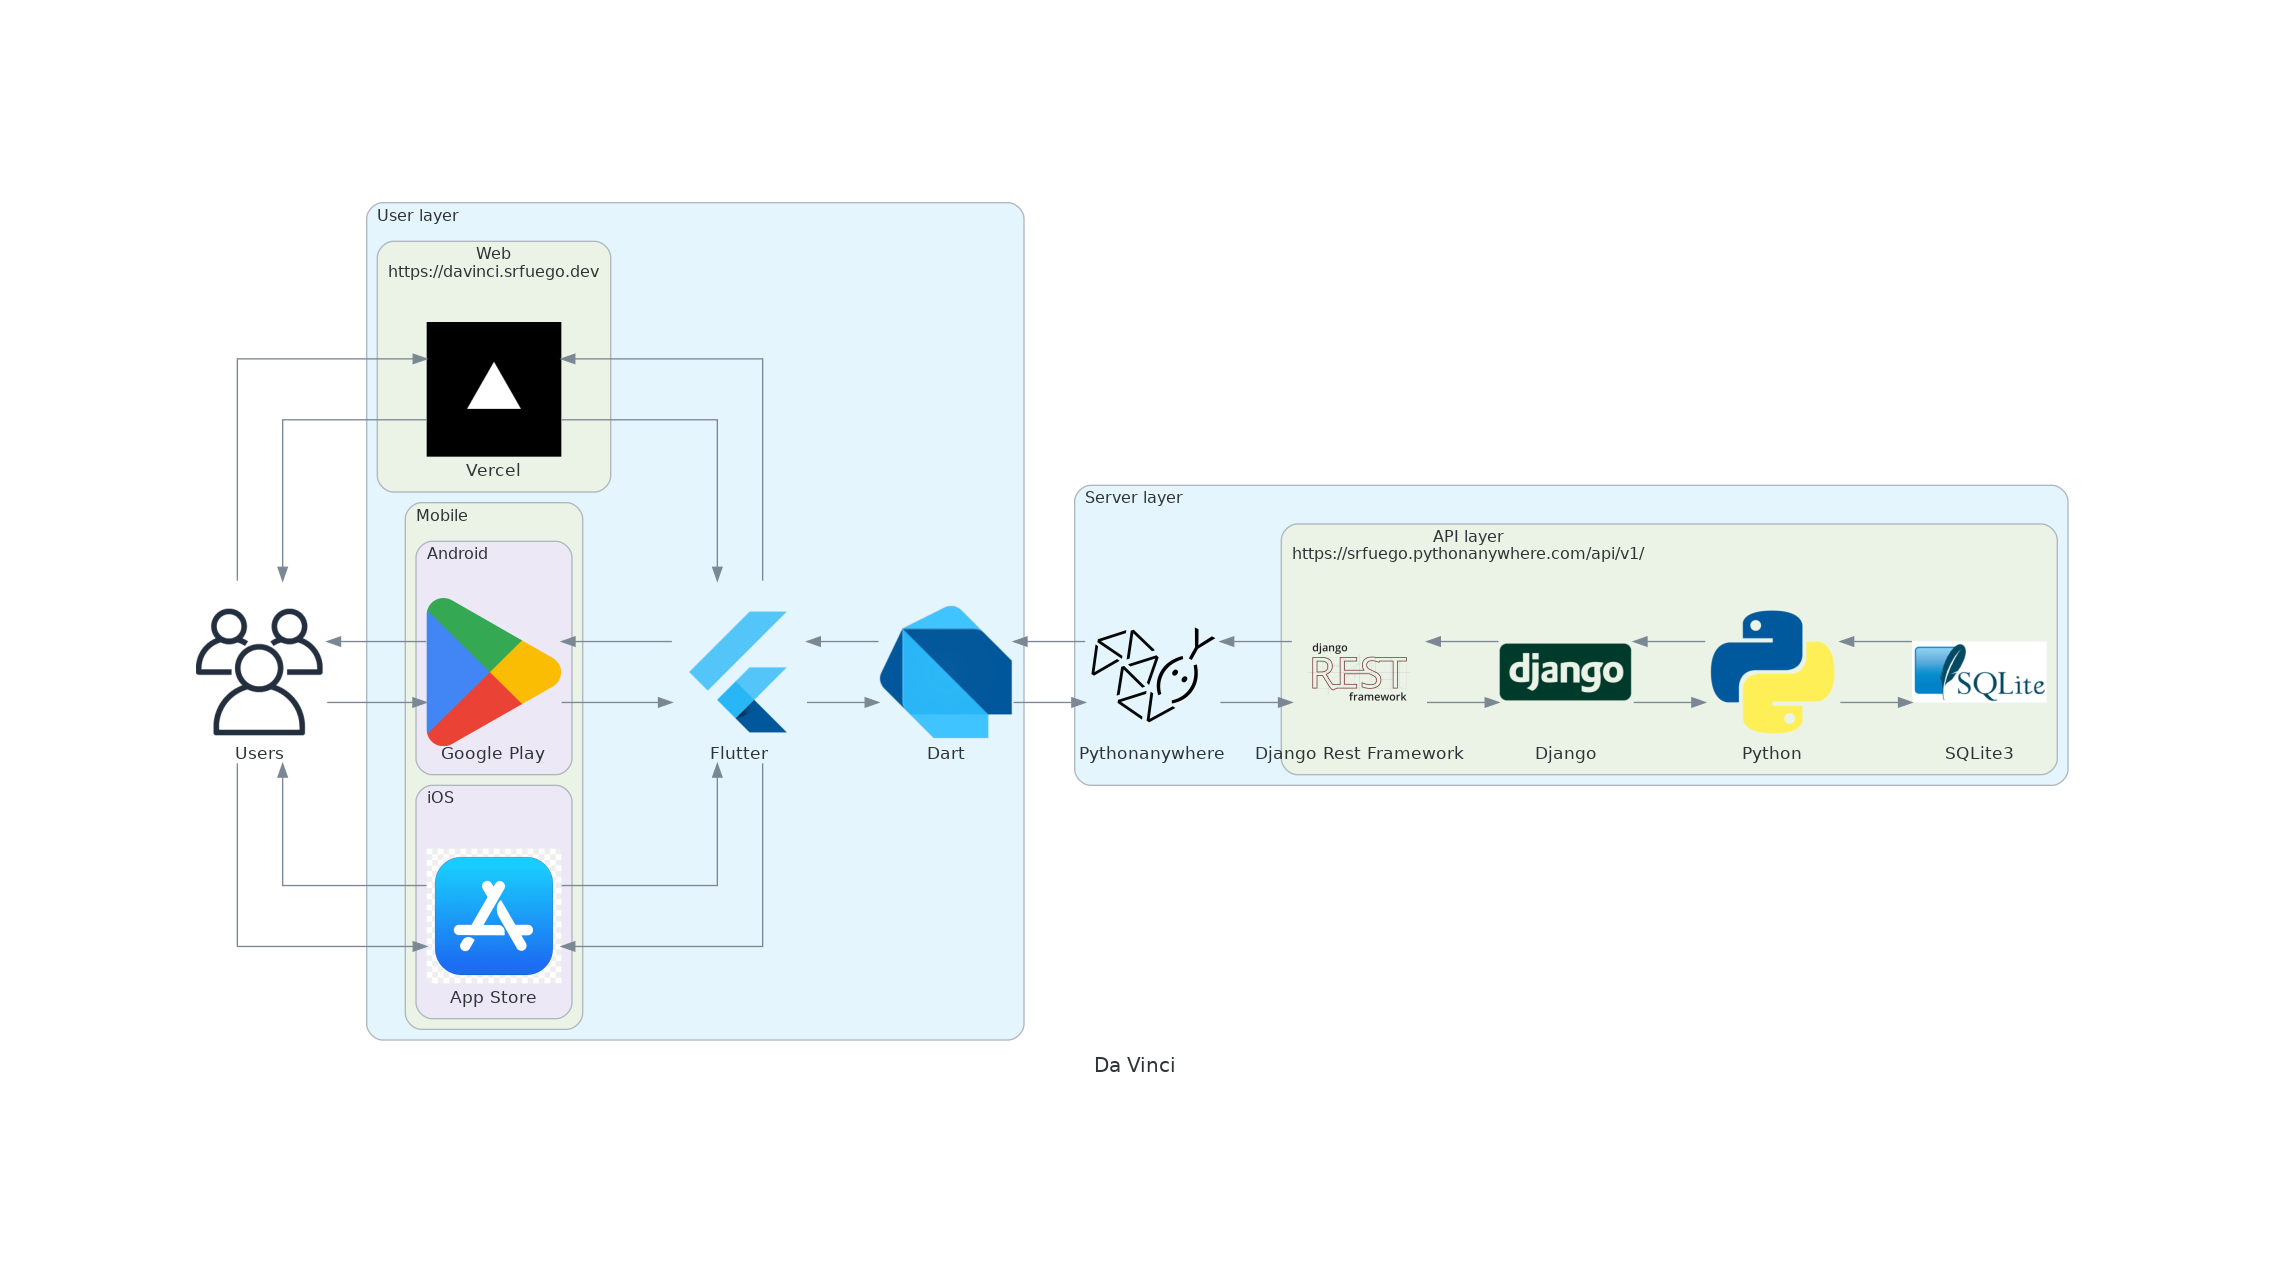
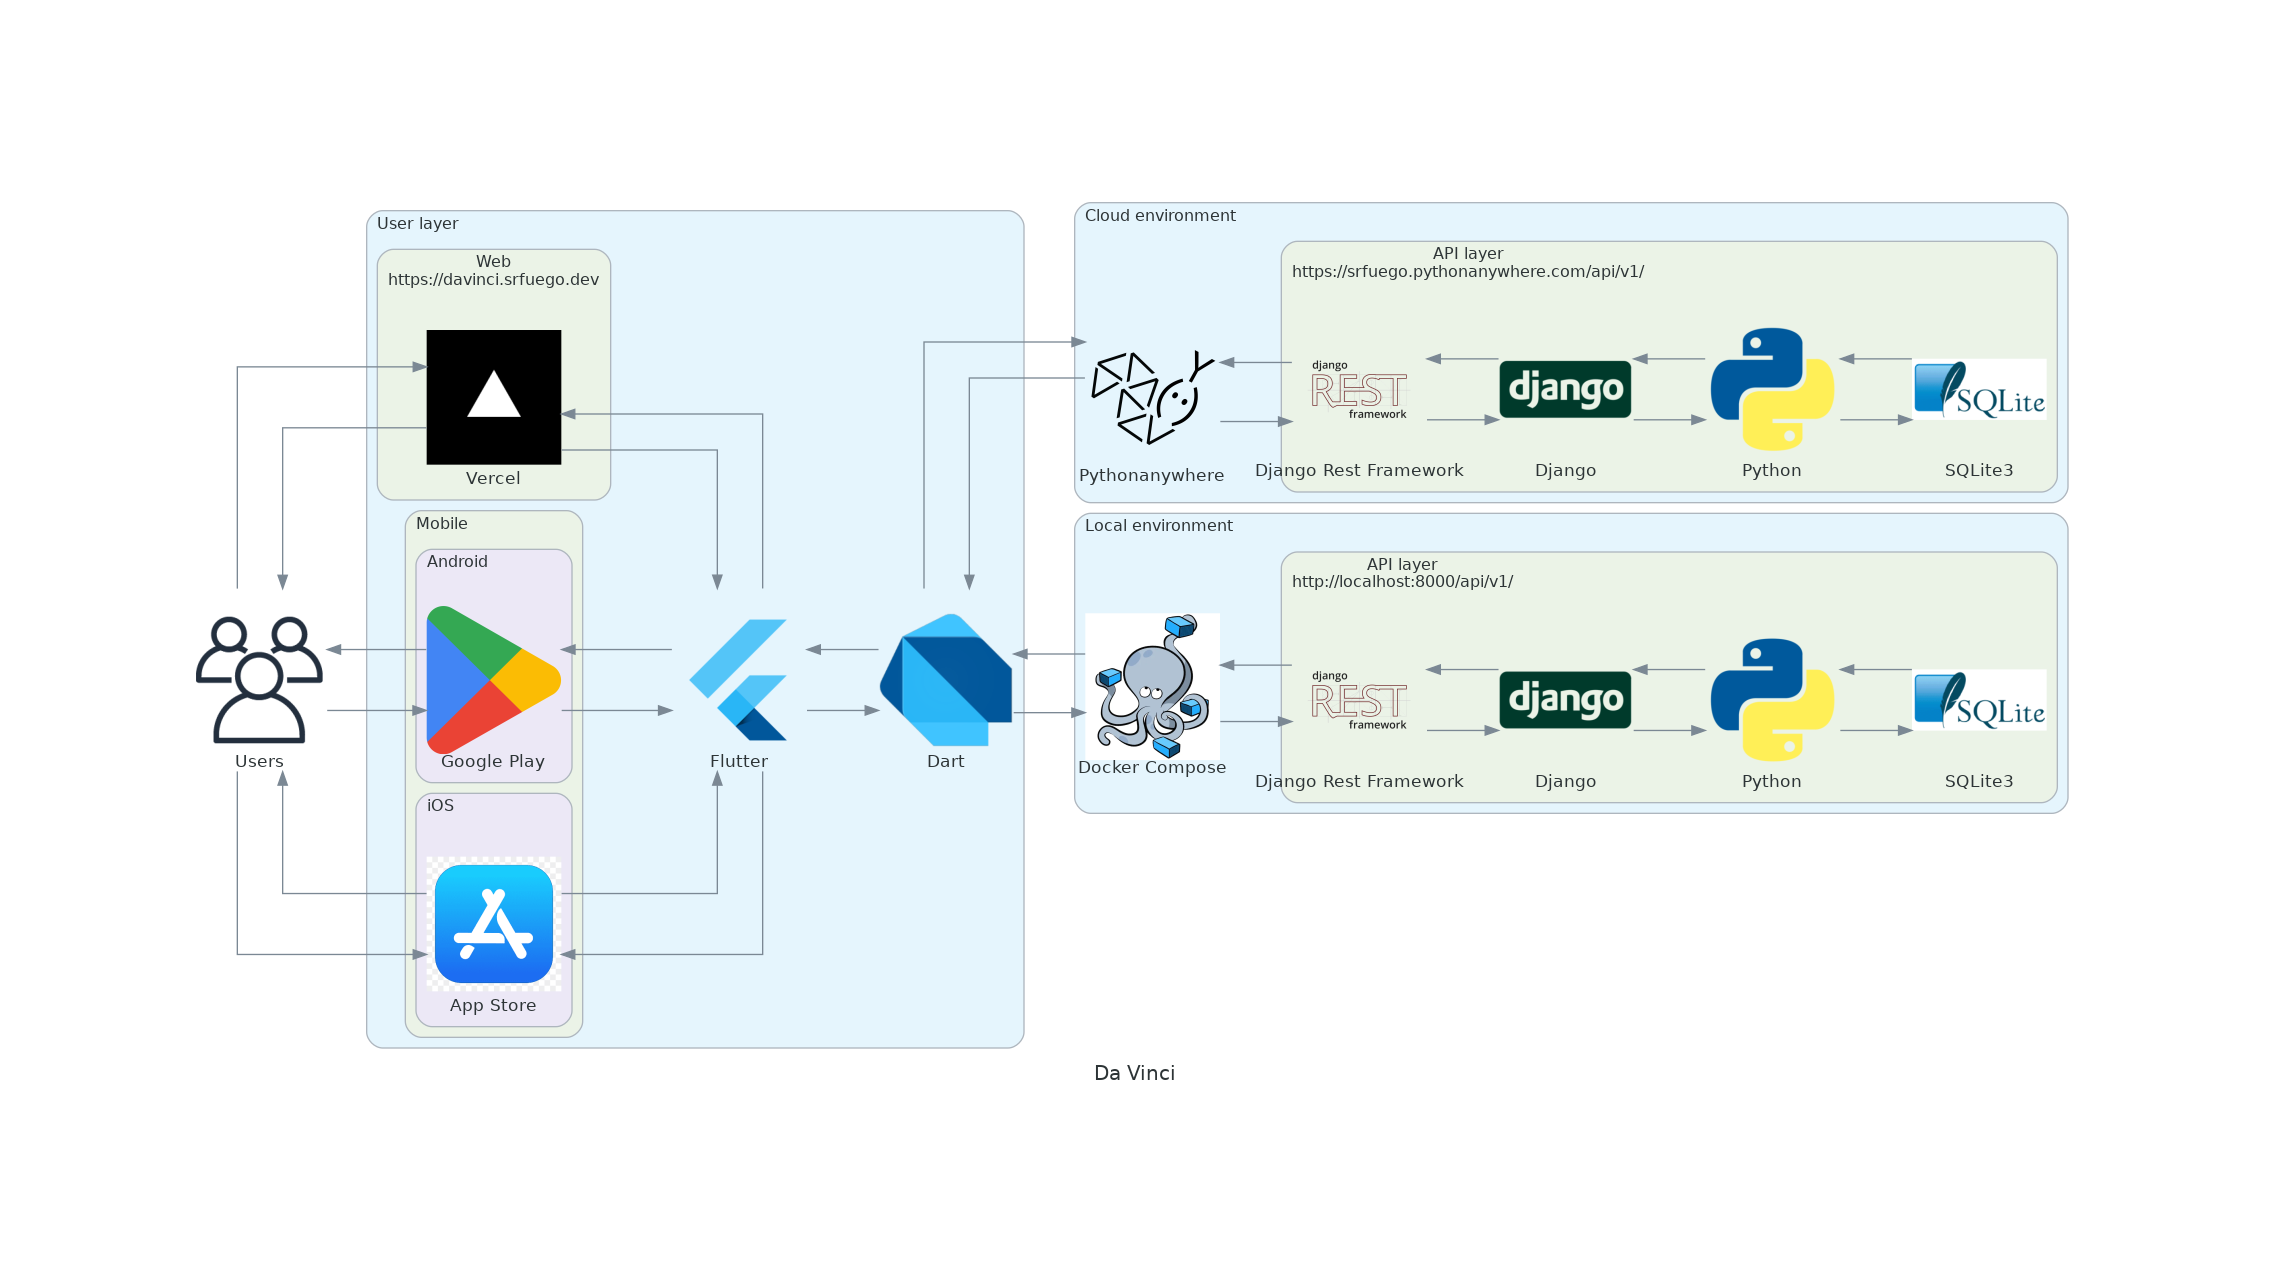
ADD diagram to Local environment

diff --git a/docs/infrastructure/diagram.py b/docs/infrastructure/diagram.py
@@ -1,17 +1,20 @@
 # diagram.py
 
 from diagrams import Cluster, Diagram
-from diagrams.aws.compute import EC2
-from diagrams.aws.database import RDS
-from diagrams.onprem.database import Postgresql
-from diagrams.aws.network import ELB
+
+# from diagrams.aws.compute import EC2
+# from diagrams.aws.database import RDS
+
+# from diagrams.onprem.database import Postgresql
+# from diagrams.aws.network import ELB
 from diagrams.custom import Custom
 from diagrams.programming.language import Dart, Python
 from diagrams.programming.framework import Django, Flutter
 from diagrams.onprem.client import Users
-from diagrams.generic.os import Android, IOS
-from diagrams.generic.device import Mobile, Tablet
-from diagrams.onprem.vcs import Git, Github
+
+# from diagrams.generic.os import Android, IOS
+# from diagrams.generic.device import Mobile, Tablet
+# from diagrams.onprem.vcs import Git, Github
 
 # from diagrams.onprem.network import Gunicorn, Nginx, Traefik
 
@@ -21,7 +24,6 @@ with Diagram("Da Vinci", show=False):
     with Cluster("User layer"):
         dart = Dart("Dart")
         flutter = Flutter("Flutter")
-
         with Cluster(
             "\n".join(
                 [
@@ -46,7 +48,7 @@ with Diagram("Da Vinci", show=False):
                     "./assets/app-store.png",
                 )
 
-    with Cluster("Server layer"):
+    with Cluster("Cloud environment"):
         pythonanywhere = Custom(
             "Pythonanywhere",
             "./assets/pythonanywhere.png",
@@ -59,20 +61,45 @@ with Diagram("Da Vinci", show=False):
                 ]
             )
         ):
-            python = Python("Python")
-            django = Django("Django")
-            django_rest = Custom(
+            python_cloud = Python("Python")
+            django_cloud = Django("Django")
+            django_rest_cloud = Custom(
                 "Django Rest Framework",
                 "./assets/django-rest-framework.png",
             )
-            sqlite = Custom(
+            sqlite_cloud = Custom(
                 "SQLite3",
                 "./assets/sqlite.png",
             )
         # with Cluster("Database layer"):
         #     database = Postgresql("Postgres")
 
-    # vercel
+    with Cluster("Local environment"):
+        docker_compose = Custom(
+            "Docker Compose",
+            "./assets/docker-compose.webp",
+        )
+        with Cluster(
+            "\n".join(
+                [
+                    "API layer",
+                    "http://localhost:8000/api/v1/",
+                ]
+            )
+        ):
+            python_local = Python("Python")
+            django_local = Django("Django")
+            django_rest_local = Custom(
+                "Django Rest Framework",
+                "./assets/django-rest-framework.png",
+            )
+            sqlite_local = Custom(
+                "SQLite3",
+                "./assets/sqlite.png",
+            )
+        # with Cluster("Database layer"):
+        #     database = Postgresql("Postgres")
+
     user >> vercel >> flutter
     user << vercel << flutter
 
@@ -85,7 +112,36 @@ with Diagram("Da Vinci", show=False):
     flutter >> dart
     flutter << dart
 
-    dart >> pythonanywhere >> django_rest >> django >> python >> sqlite
-    dart << pythonanywhere << django_rest << django << python << sqlite
-    # api
-    # database
+    (
+        dart
+        >> pythonanywhere
+        >> django_rest_cloud
+        >> django_cloud
+        >> python_cloud
+        >> sqlite_cloud
+    )
+    (
+        dart
+        << pythonanywhere
+        << django_rest_cloud
+        << django_cloud
+        << python_cloud
+        << sqlite_cloud
+    )
+
+    (
+        dart
+        >> docker_compose
+        >> django_rest_local
+        >> django_local
+        >> python_local
+        >> sqlite_local
+    )
+    (
+        dart
+        << docker_compose
+        << django_rest_local
+        << django_local
+        << python_local
+        << sqlite_local
+    )
